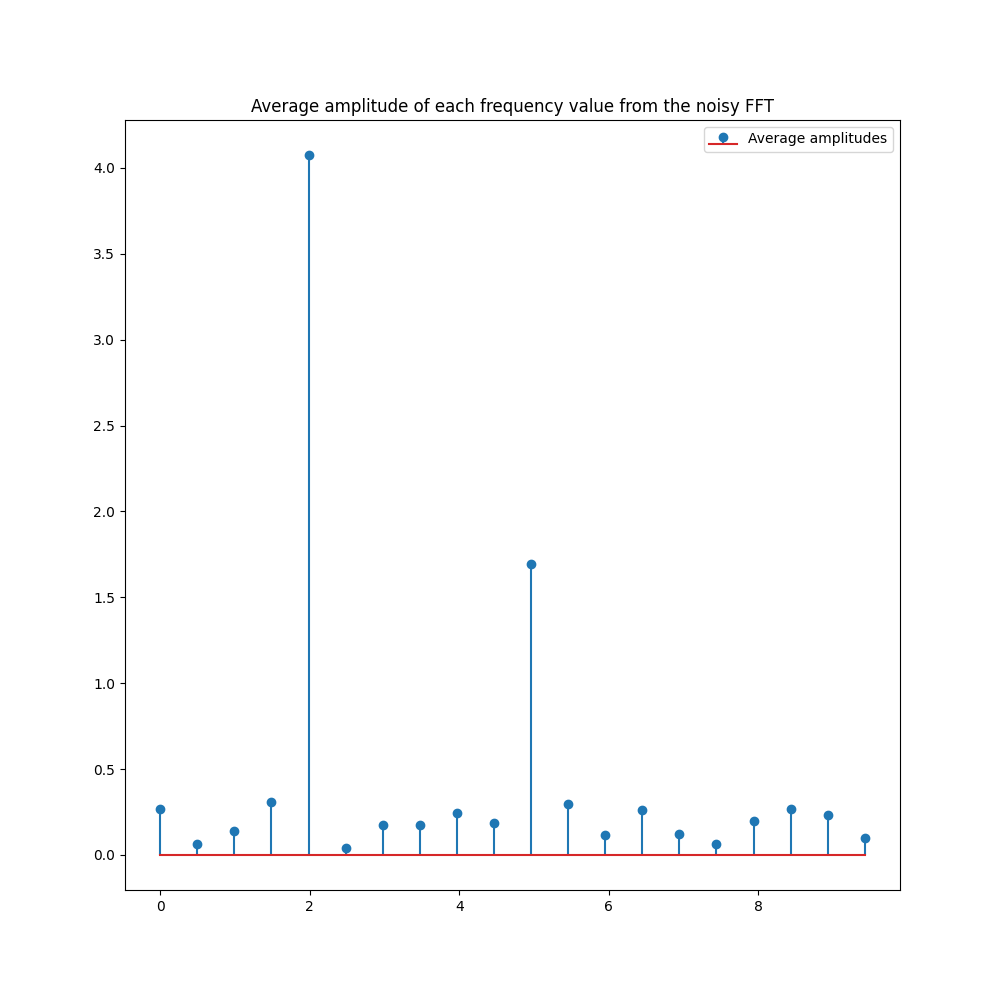
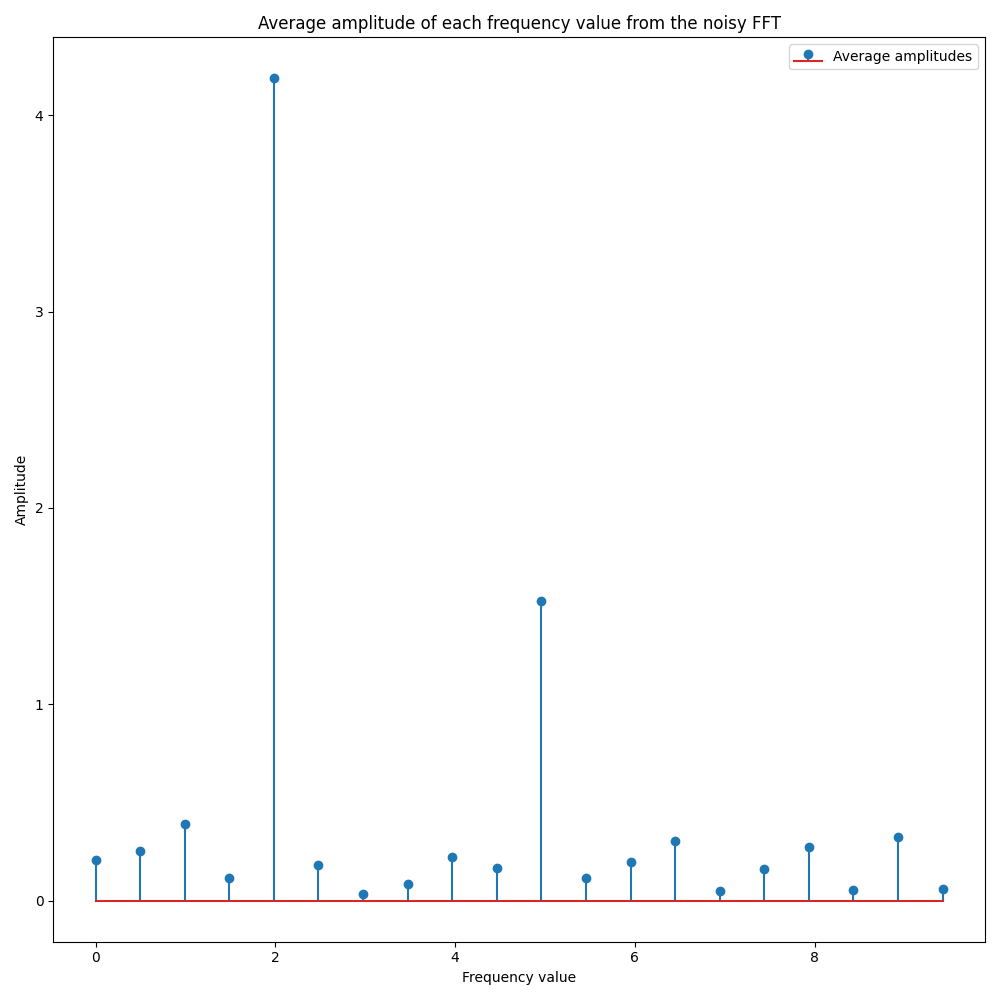
square wave

diff --git a/squarewave_intro.py b/squarewave_intro.py
@@ -9,8 +9,8 @@ def real_imag(fft_result):
     real = np.real(fft_result)
     imag = np.imag(fft_result)
     # And finally, to get the amplitudes of components, we can apply the following:
-    cos_amp = np.abs(2*real)
-    sin_amp = np.abs(2*imag)
+    cos_amp = 2*real
+    sin_amp = -2*imag
 
     # The actual amplitudes of our values from above
     amps = np.sqrt(np.square(cos_amp) + np.square(sin_amp))
@@ -59,12 +59,14 @@ real,imag = real_imag(fft_result)
 # The frequencies of our matched up amplitudes
 freqs = np.linspace(0, N/sample_rate - 1, N)
 # Let's just look at the first 20 points
-fig,ax = plt.subplots(1,2,figsize=(10, 10))
-ax[0].stem(freqs[:20], real[:20],'g', markerfmt='go' ,label='real coefficients = An')
-ax[0].set_ylim(-.06,1.334)
-ax[1].stem(freqs[:20], imag[:20],'k', markerfmt='ko' ,label='imaginary coefficients = Bn')
-ax[0].legend()
+fig,ax = plt.subplots(1,3,figsize=(15, 10))
+ax[0].plot(fine_xs,fine_fxs,label='Square wave signal')
+ax[0].scatter(xs,fxs,c='r',label='Discrete sample points')
+ax[1].stem(freqs[:20], real[:20],'g', markerfmt='go' ,label='real coefficients = An')
+ax[1].set_ylim(-.06,1.334)
+ax[2].stem(freqs[:20], imag[:20],'k', markerfmt='ko' ,label='imaginary coefficients = Bn')
 ax[1].legend()
+ax[2].legend()
 fig.suptitle('Absolute value of real and imaginary coefficients from the FFT')
 plt.tight_layout()
 #plt.savefig(f'{N}sample_fft_stems.png')
@@ -73,53 +75,6 @@ plt.show()
 # As expected (with slight errors due to sample size), we get the correct peaks at
 # frequencies 2 and 5, with amplitudes ~4.02 and ~1.53 respectively.
 
-"""Example FFT on noisy function data"""
-
-# Additionally, we can add noise to our function sample points to show
-# that the FFT still functions, while doing a good job of noise reduction.
-# Let's randomly offset each of our samples across the normal distribution:
-offsets = np.random.normal(size=fxs.size)
-fxs_offset = fxs + offsets
-
-# The code below this is nearly identical to that explained above
-
-# Plot everything
-plt.figure(figsize=(10, 10))
-plt.plot(fine_xs, fine_fxs, label='Full function')
-plt.scatter(xs, fxs_offset, c='r', label='Discrete sample points')
-plt.legend()
-plt.xlabel('x')
-plt.ylabel('y')
-plt.title('Square Wave - Sampled with 128 noisy points')
-#plt.savefig(f'{N}sample_noisy_fft_func.png')
-plt.show()
-
-# Apply the FFT to our function data
-fft_result_offset = (1/N)*np.fft.fft(fxs_offset)
-
-# The actual magnitudes of our values from above
-off_real,off_imag = real_imag(fft_result_offset)
-
-# The frequencies of our matched up amplitudes
-freqs = np.linspace(0, N/sample_rate - 1, N)
-# Let's just look at the first 20 points
-fig,bx = plt.subplots(1,2,figsize=(10, 10))
-bx[0].stem(freqs[:20], off_real[:20],'g', markerfmt='go' ,label='real coefficients = An')
-bx[0].set_ylim(-.06,1.334)
-bx[1].stem(freqs[:20], off_imag[:20],'k', markerfmt='ko' ,label='imaginary coefficients = Bn')
-bx[0].legend()
-bx[1].legend()
-fig.suptitle('Absolute value of real and imaginary coefficients from the FFT')
-plt.tight_layout()
-#plt.savefig(f'{N}sample_fft_stems.png')
-plt.show()
-
-# As expected (with slight errors due to sample size), we get the correct peaks at
-# frequencies 2 and 5, with amplitudes ~4.02 and ~1.53 respectively.
-
-# This result is almost identical to our previous result without noise.
-# This highlights another useful task that Fourier Transforms accomplish,
-# filtering noise in data.
 
 """Taking the inverse of our original transformed function data"""
 # Lastly, we can take the inverse of our fft data from the previous noisy example
@@ -137,48 +92,3 @@ plt.title('Square Wave - Inverse FFT')
 plt.show()
 
 # Not surprisingly, the inverse gives us back our signal almost exactly!
-
-"""Working with non-power of 2 sample size"""
-
-# As described before, FFT can only work with data that has sample size of
-# 2^n (n is an integer). To work around this with sample sizes that aren't
-# powers of 2, FFT will pad the data with zeros to get to the nearest
-# power of 2 before transforming.
-
-# Let's try this on the function we've been working with:
-# With this equation, we have the following:
-#   ->frequency=2 with an average amplitude~=4.02
-#   ->frequency=5 with an average amplitude~=1.53
-f = lambda x: signal.square(x)
-
-a = 0
-b = 4*np.pi
-# The sample rate is essentially the number of periods our function goes through
-sample_rate = (b-a)/(2*np.pi)
-
-# Let's sample 96 points over the interval [a,b]
-N = 96
-xs = np.linspace(a, b, N)
-fxs = f(xs)
-
-# Apply the FFT to our function data
-# Inside this function, it will pad up to make the input size 128
-# Although this isn't how Numpy would usually handle this,
-# this forces a padding up to 2^n.
-padded_N = 128
-padded_fft_result = (1/N)*np.fft.fft(fxs, n=padded_N)
-
-padded_freqs = np.linspace(0, N/sample_rate - 1, padded_N)
-
-padded_real,padded_imag = real_imag(padded_fft_result)
-
-fig,ax = plt.subplots(1,2,figsize=(10, 10))
-ax[0].stem(freqs[:20], padded_real[:20],'g', markerfmt='go' ,label='real coefficients = An')
-ax[0].set_ylim(-.06,1.334)
-ax[1].stem(freqs[:20], padded_imag[:20],'k', markerfmt='ko' ,label='imaginary coefficients = Bn')
-ax[0].legend()
-ax[1].legend()
-fig.suptitle('Absolute value of real and imaginary coefficients from the FFT')
-plt.tight_layout()
-#plt.savefig(f'{N}sample_fft_stems.png')
-plt.show()

diff --git a/fft_simple_example.py b/fft_simple_example.py
@@ -155,15 +155,15 @@ sample_rate = (b-a)/(2*np.pi)
 
 # Let's sample 96 points over the interval [a,b]
 N = 96
-xs = np.linspace(a, b, N)
-fxs = f(xs)
+xs_pad = np.linspace(a, b, N)
+fxs_pad = f(xs)
 
 # Apply the FFT to our function data
 # Inside this function, it will pad up to make the input size 128
 # Although this isn't how Numpy would usually handle this,
 # this forces a padding up to 2^n.
 padded_N = 128
-padded_fft_result = (1/N)*np.fft.fft(fxs, n=padded_N)
+padded_fft_result = (1/N)*np.fft.fft(fxs_pad, n=padded_N)
 
 padded_freqs = np.linspace(0, N/sample_rate - 1, padded_N)
 
